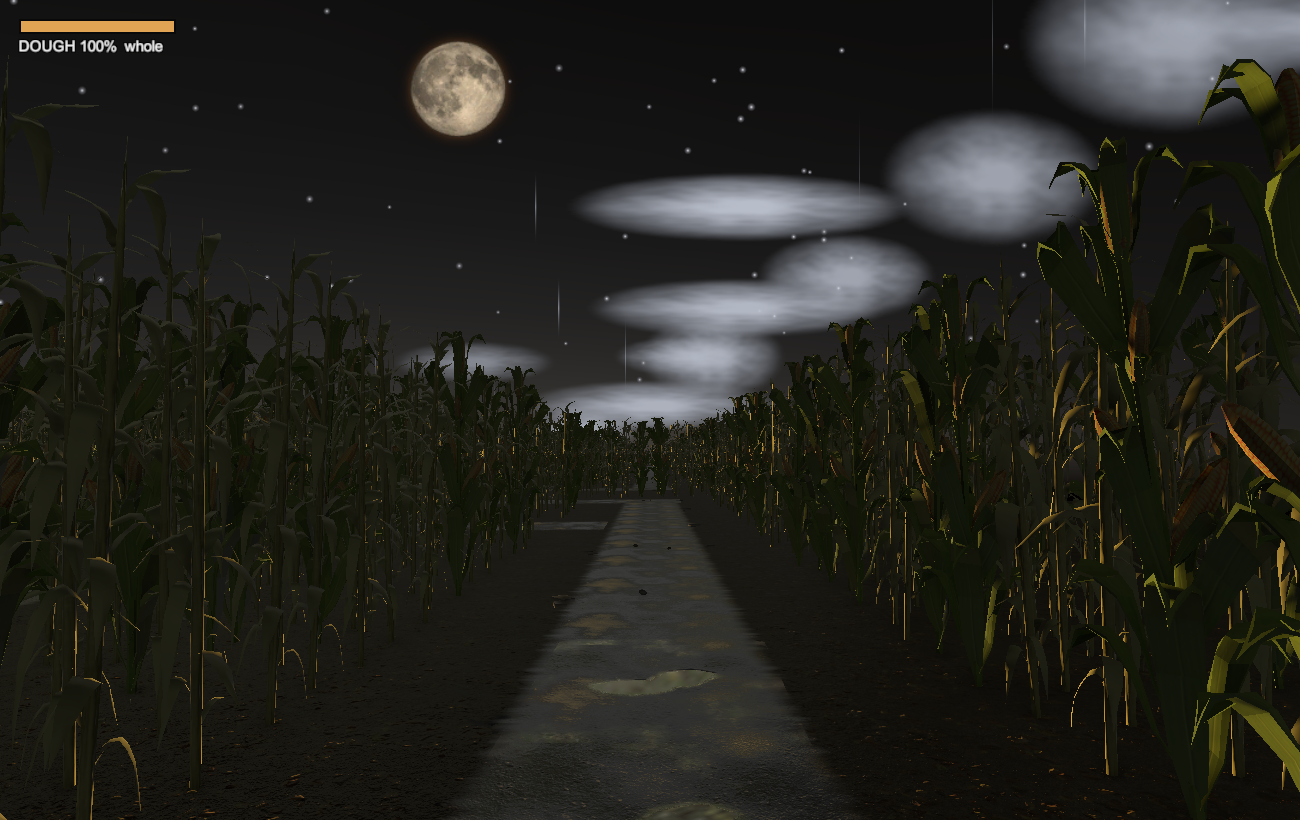
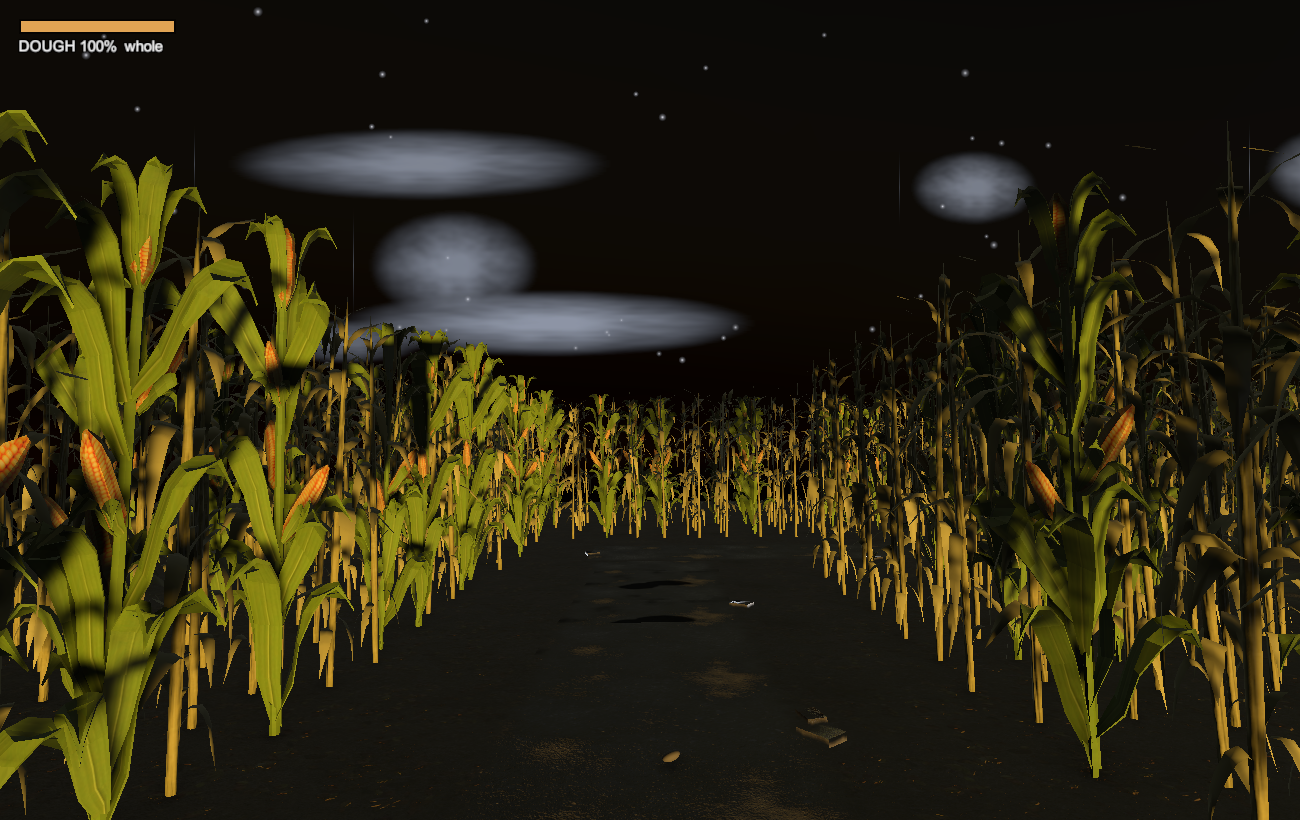
M32g - two tests, both negative, one real defect fixed on the way: opaque water is flat (the transparent pass was not the fault) and the environment's contribution flipped from -28..-1 to +14..+19 once defaultReflectionMode=Custom was set. Owner: Harrow (@corn-chief), M32c water half, under the 4-pa

diff --git a/Assets/Scripts/M32bPuddleSelfTest.cs b/Assets/Scripts/M32bPuddleSelfTest.cs
@@ -747,11 +747,16 @@ public class M32bPuddleSelfTest : MonoBehaviour
             PuddleDecals.SetGlintForTest(false);
             for (int i = 0; i < 4; i++) yield return null;
         }
-        puddleMat.SetColor("_BaseColor", Color.black);
-        Materials.BindReflection(puddleMat, null, 0f);
+        // M32g TEST 1 — OPAQUE WATER, ONE FRAME, same camera and puddle. If the transparent pass is what loses the
+        // probe's cube, this frame's buckets rise toward the horizon. (The albedo-black ablation that used to hold
+        // this frame proved only that the water's brightness is not its albedo — retired, and said so in the report.)
+        Materials.MakeOpaqueWaterForTest(puddleMat);
+        for (int i = 0; i < 4; i++) yield return null;
         yield return ShootInto(player, aimPoint, nm[4], fr, 4);
+        Materials.MakeAlphaBlend(puddleMat);
         puddleMat.SetColor("_BaseColor", puddleCol);
         Materials.BindReflection(puddleMat, gloss, 0.10f);
+        for (int i = 0; i < 4; i++) yield return null;
 
         // The lane material is shared by every lane piece, so painting it paints the lane — no renderer hunt.
         laneMat.SetColor("_BaseColor", new Color(0f, 4f, 4f, 1f));
@@ -915,7 +920,8 @@ public class M32bPuddleSelfTest : MonoBehaviour
             tList.Sort();
             float tMin = tList[0], tMax = tList[tList.Count - 1];
             const int NB = 6;
-            int[] bn = new int[NB]; double[] bs = new double[NB]; double[] bd = new double[NB]; int[] bdn = new int[NB];
+            float[] tOf = new float[W * H];
+            for (int i = 0; i < W * H; i++) tOf[i] = -1f;
             for (int y = 0; y < H; y++)
                 for (int x = 0; x < W; x++)
                 {
@@ -923,29 +929,34 @@ public class M32bPuddleSelfTest : MonoBehaviour
                     if (!water[i]) continue;
                     var ray = cam.ScreenPointToRay(new Vector3(x, y, 0f));
                     if (ray.direction.y > -1e-4f) continue;
-                    float t = (_groundY - ray.origin.y) / ray.direction.y;
-                    int b = Mathf.Clamp((int)((t - tMin) / Mathf.Max(1e-3f, tMax - tMin) * NB), 0, NB - 1);
-                    bn[b]++; bs[b] += fr[0][i].g;
-                    if (fr[1] != null) { bd[b] += fr[0][i].g - fr[1][i].g; bdn[b]++; }
+                    tOf[i] = (_groundY - ray.origin.y) / ray.direction.y;
                 }
-            var gb = new System.Text.StringBuilder();
-            gb.Append("THE DISTANCE GRADIENT ACROSS THE PUDDLE (near edge -> far edge, " + tMin.ToString("0.0") + " to " +
-                      tMax.ToString("0.0") + " m past the eye), shipped frame: ");
-            for (int b = 0; b < NB; b++) gb.Append((bn[b] > 0 ? (bs[b] / bn[b]).ToString("0.0") : "n/a") + (b < NB - 1 ? " -> " : ""));
-            gb.Append(" of 255. A dielectric reflecting the sky RISES toward the horizon; a flat run means the " +
-                      "environment is arriving as ambient — view-independent, and therefore not a reflection.");
-            Emit(gb.ToString());
-            if (fr[1] != null)
+            System.Func<int, int, string> line = (fa, fb2) =>
             {
-                var db = new System.Text.StringBuilder();
-                db.Append("THE SAME GRADIENT FOR THE ENVIRONMENT'S OWN CONTRIBUTION (frame ON minus frame OFF, same " +
-                          "camera): ");
+                if (fa < 0 || fa >= fr.Length || fr[fa] == null) return "n/a";
+                bool delta = fb2 >= 0 && fb2 < fr.Length && fr[fb2] != null;
+                int[] n2 = new int[NB]; double[] s2 = new double[NB];
+                for (int i = 0; i < W * H; i++)
+                {
+                    if (tOf[i] < 0f) continue;
+                    int b = Mathf.Clamp((int)((tOf[i] - tMin) / Mathf.Max(1e-3f, tMax - tMin) * NB), 0, NB - 1);
+                    n2[b]++;
+                    s2[b] += delta ? fr[fa][i].g - fr[fb2][i].g : fr[fa][i].g;
+                }
+                var sb = new System.Text.StringBuilder();
                 for (int b = 0; b < NB; b++)
-                    db.Append((bdn[b] > 0 ? (bd[b] / bdn[b]).ToString("+0.0;-0.0") : "n/a") + (b < NB - 1 ? " -> " : ""));
-                db.Append(" of 255. THIS is the reflection test: if the environment's own contribution is flat across " +
-                          "the puddle, it is ambient light and no amount of it will ever read as a sheen.");
-                Emit(db.ToString());
-            }
+                    sb.Append((n2[b] > 0 ? (s2[b] / n2[b]).ToString(delta ? "+0.0;-0.0" : "0.0") : "n/a") +
+                              (b < NB - 1 ? " -> " : ""));
+                return sb.ToString();
+            };
+            Emit("THE DISTANCE GRADIENT ACROSS THE PUDDLE, six buckets, near edge -> far edge, " + tMin.ToString("0.0") +
+                 " to " + tMax.ToString("0.0") + " m past the eye, of 255. A reflection MUST rise toward the horizon.");
+            Emit("    shipped water (alpha-blend):  " + line(0, -1) + "   <- the frame Todd has");
+            Emit("    OPAQUE water, same camera:    " + line(4, -1) + "   <- TEST 1");
+            Emit("    the glint variant:            " + line(3, -1) + "   <- TEST 2");
+            Emit("    environment's own share:      " + line(0, 1));
+            Emit("    opaque MINUS blended:         " + line(4, 0) + "   <- if this rises near-to-far, the transparent pass was the fault");
+            Emit("    glint MINUS shipped:          " + line(3, 0));
         }
 
         puddleMat.SetColor("_BaseColor", puddleCol);

diff --git a/Assets/Scripts/Materials.cs b/Assets/Scripts/Materials.cs
@@ -181,6 +181,21 @@ public static class Materials
         mat.renderQueue = (int)UnityEngine.Rendering.RenderQueue.Geometry;
     }
 
+    /// <summary>
+    /// M32g TEST 1 — OPAQUE WATER. The suspect is that URP's transparent pass is what loses the probe's specular
+    /// cube; if so, opaque water reflects it. Alpha-test at 0.45 keeps the coverage mask doing the shape work (the
+    /// water core is 0.86 and survives, the damp halo at 0.1-0.2 is cut), so the pool stays a pool rather than
+    /// becoming the decal's rectangle.
+    /// </summary>
+    public static void MakeOpaqueWaterForTest(Material mat)
+    {
+        if (mat == null) return;
+        MakeOpaque(mat);
+        if (mat.HasProperty("_AlphaClip")) mat.SetFloat("_AlphaClip", 1f);
+        if (mat.HasProperty("_AlphaCutoff")) mat.SetFloat("_AlphaCutoff", 0.45f);
+        mat.EnableKeyword("_ALPHATEST_ON");
+    }
+
     /// <summary>Reads the blend state back off a material, so the report can print what is actually set
     /// rather than what the builder intended.</summary>
     public static string DescribeBlend(Material mat)
@@ -298,37 +313,35 @@ public static class Materials
     /// </summary>
     public static Material Glint()
     {
-        // URP/Lit rather than URP/Unlit on purpose: Lit is compiled into this build (the ground uses it) and Unlit
-        // may be stripped, which is the trap `CornMaze/StarUnlit` already fell into once.
-        var mat = Lit(new Color(0.74f, 0.80f, 1.00f, 1f), 0.02f, 0f);
+        // URP **Particles/Unlit**, not Lit and not URP/Unlit. This shader is PROVEN to resolve in this player build:
+        // the rain uses it (StormWeather) and the rain renders in every frame. `CornMaze/StarUnlit` is the one that
+        // does not resolve, and URP/Unlit may be stripped — a material that silently falls back to nothing is how
+        // the first two attempts at this glint measured +0.02 and +0.03 of 255 and looked like a subtlety.
+        var shader = Shader.Find("Universal Render Pipeline/Particles/Unlit");
+        if (shader == null) shader = Shader.Find("Particles/Standard Unlit");
+        if (shader == null) shader = Lit(Color.white, 0.05f, 0f).shader;
+        var mat = new Material(shader);
         var glintTex = MakeGlintTex(128);
         if (mat.HasProperty("_BaseMap")) mat.SetTexture("_BaseMap", glintTex);
-        // `_EmissionMap` TOO, not just the colour. URP/Lit's emissive term is `_EmissionMap * _EmissionColor`, so a
-        // colour with no map on the emissive slot is the same class of bug as `alphaSource=None`: wired on paper,
-        // absent in the shader. The run before this one proved it — the glint moved the water +0.02 of 255.
+        if (mat.HasProperty("_MainTex")) mat.SetTexture("_MainTex", glintTex);
         if (mat.HasProperty("_EmissionMap")) mat.SetTexture("_EmissionMap", glintTex);
-        if (mat.HasProperty("_BaseColor")) mat.SetColor("_BaseColor", new Color(0f, 0f, 0f, 1f));  // lit part ~0
-        if (mat.HasProperty("_EmissionColor"))
-        {
-            mat.SetColor("_EmissionColor", new Color(0.42f, 0.47f, 0.62f, 1f));   // SUBTLE: 42 % of moonlight
-            mat.EnableKeyword("_EMISSION");
-            mat.globalIlluminationFlags = MaterialGlobalIlluminationFlags.None;
-        }
-        mat.SetOverrideTag("RenderType", "Transparent");
-        if (mat.HasProperty("_Surface")) mat.SetFloat("_Surface", 1f);
-        if (mat.HasProperty("_Blend")) mat.SetFloat("_Blend", 0f);
+        // Unlit and additive: the highlight does not depend on the moon light, on Fresnel, or on the view angle,
+        // which is the entire reason this variant exists. SUBTLE — a hint of moon in water, not a mirror.
+        if (mat.HasProperty("_BaseColor")) mat.SetColor("_BaseColor", new Color(0.34f, 0.39f, 0.52f, 1f));
+        if (mat.HasProperty("_EmissionColor")) mat.SetColor("_EmissionColor", new Color(0.34f, 0.39f, 0.52f, 1f));
         if (mat.HasProperty("_SrcBlend")) mat.SetFloat("_SrcBlend", (float)UnityEngine.Rendering.BlendMode.SrcAlpha);
-        if (mat.HasProperty("_DstBlend")) mat.SetFloat("_DstBlend", (float)UnityEngine.Rendering.BlendMode.One);  // ADD
+        if (mat.HasProperty("_DstBlend")) mat.SetFloat("_DstBlend", (float)UnityEngine.Rendering.BlendMode.One);   // ADD
         if (mat.HasProperty("_ZWrite")) mat.SetFloat("_ZWrite", 0f);
-        if (mat.HasProperty("_AlphaClip")) mat.SetFloat("_AlphaClip", 0f);
+        if (mat.HasProperty("_Surface")) mat.SetFloat("_Surface", 1f);
+        if (mat.HasProperty("_Blend")) mat.SetFloat("_Blend", 1f);          // 1 = additive in the Particles family
+        mat.DisableKeyword("_ALPHAPREMULTIPLY_ON");
+        mat.DisableKeyword("_ALPHAMODULATE_ON");
         mat.DisableKeyword("_ALPHATEST_ON");
         mat.EnableKeyword("_SURFACE_TYPE_TRANSPARENT");
-        mat.renderQueue = (int)UnityEngine.Rendering.RenderQueue.Transparent;
+        // Drawn AFTER the water decal so transparent sorting cannot hide it under the water it belongs to.
+        mat.renderQueue = 3100;
         return mat;
     }
-
-    /// <summary>A soft moon streak for the glint: bright core, long falloff down the puddle's rut axis, nothing
-    /// outside. Procedural like everything else in this project — no third-party asset, nothing to license.</summary>
     static Texture2D MakeGlintTex(int n)
     {
         var t = new Texture2D(n, n, TextureFormat.RGBA32, false);

diff --git a/Assets/Scripts/PuddleDecals.cs b/Assets/Scripts/PuddleDecals.cs
@@ -48,11 +48,29 @@ public static class PuddleDecals
         {
             var mf = p.GetComponent<MeshFilter>();
             if (mf == null || mf.sharedMesh == null) continue;
+            // WHICH WAY IS UP IS THE MESH'S OWN BUSINESS. The first two attempts offset along local +Y and scaled
+            // local X/Z, which is only correct if the decal's quad lies in the XZ plane — it does not, and a quad
+            // squashed along the wrong axis is an edge-on sliver: present, activated, and worth +0.15 of 255. The
+            // mesh's own local bounds say which axis is the flat one (the normal) and which in-plane axis is the
+            // long one (the rut the streak runs down).
+            var lb = mf.sharedMesh.bounds.size;
+            float[] e = { lb.x, lb.y, lb.z };
+            int flat = 0;
+            if (e[1] < e[flat]) flat = 1;
+            if (e[2] < e[flat]) flat = 2;
+            int a1 = (flat + 1) % 3, a2 = (flat + 2) % 3;
+            int longIn = e[a1] >= e[a2] ? a1 : a2;
+            int shortIn = longIn == a1 ? a2 : a1;
+            var off = Vector3.zero;
+            off[flat] = 0.02f / Mathf.Max(1e-4f, Mathf.Abs(p.lossyScale[flat]));
+            var sc = Vector3.one;
+            sc[longIn] = 0.46f;      // inside the water core, not out into the halo
+            sc[shortIn] = 0.30f;
             var go = new GameObject("Glint");
             go.transform.SetParent(p, false);
-            go.transform.localPosition = new Vector3(0f, 0.015f, 0f);   // above the water, no z-fight
+            go.transform.localPosition = off;
             go.transform.localRotation = Quaternion.identity;
-            go.transform.localScale = new Vector3(0.46f, 1f, 0.30f);    // inside the water core, not the halo
+            go.transform.localScale = sc;
             go.AddComponent<MeshFilter>().sharedMesh = mf.sharedMesh;
             go.AddComponent<MeshRenderer>().sharedMaterial = mat;
             go.SetActive(GlintEnabled);

diff --git a/Assets/Scripts/ReflectionProbes.cs b/Assets/Scripts/ReflectionProbes.cs
@@ -80,6 +80,12 @@ public static class ReflectionProbes
         if (old != null) Object.Destroy(old);
         if (p != null) p.bakedTexture = SkyCube;
         RenderSettings.customReflectionTexture = SkyCube;   // the fallback for anything outside the probe's box
+        // AND MAKE IT THE DEFAULT REFLECTION. Setting `customReflectionTexture` alone is not enough: without
+        // `defaultReflectionMode = Custom` the shader's `unity_SpecCube0` keeps whatever the pipeline built at boot
+        // (here: no skybox at all), which is exactly how a map that exists ends up sampled as nothing — the water
+        // reads the environment's AMBIENT and none of its reflection, which is what every measurement has shown.
+        RenderSettings.defaultReflectionMode = UnityEngine.Rendering.DefaultReflectionMode.Custom;
+        RenderSettings.customReflection = SkyCube;
     }
 
     static Cubemap CaptureSky(int size)
